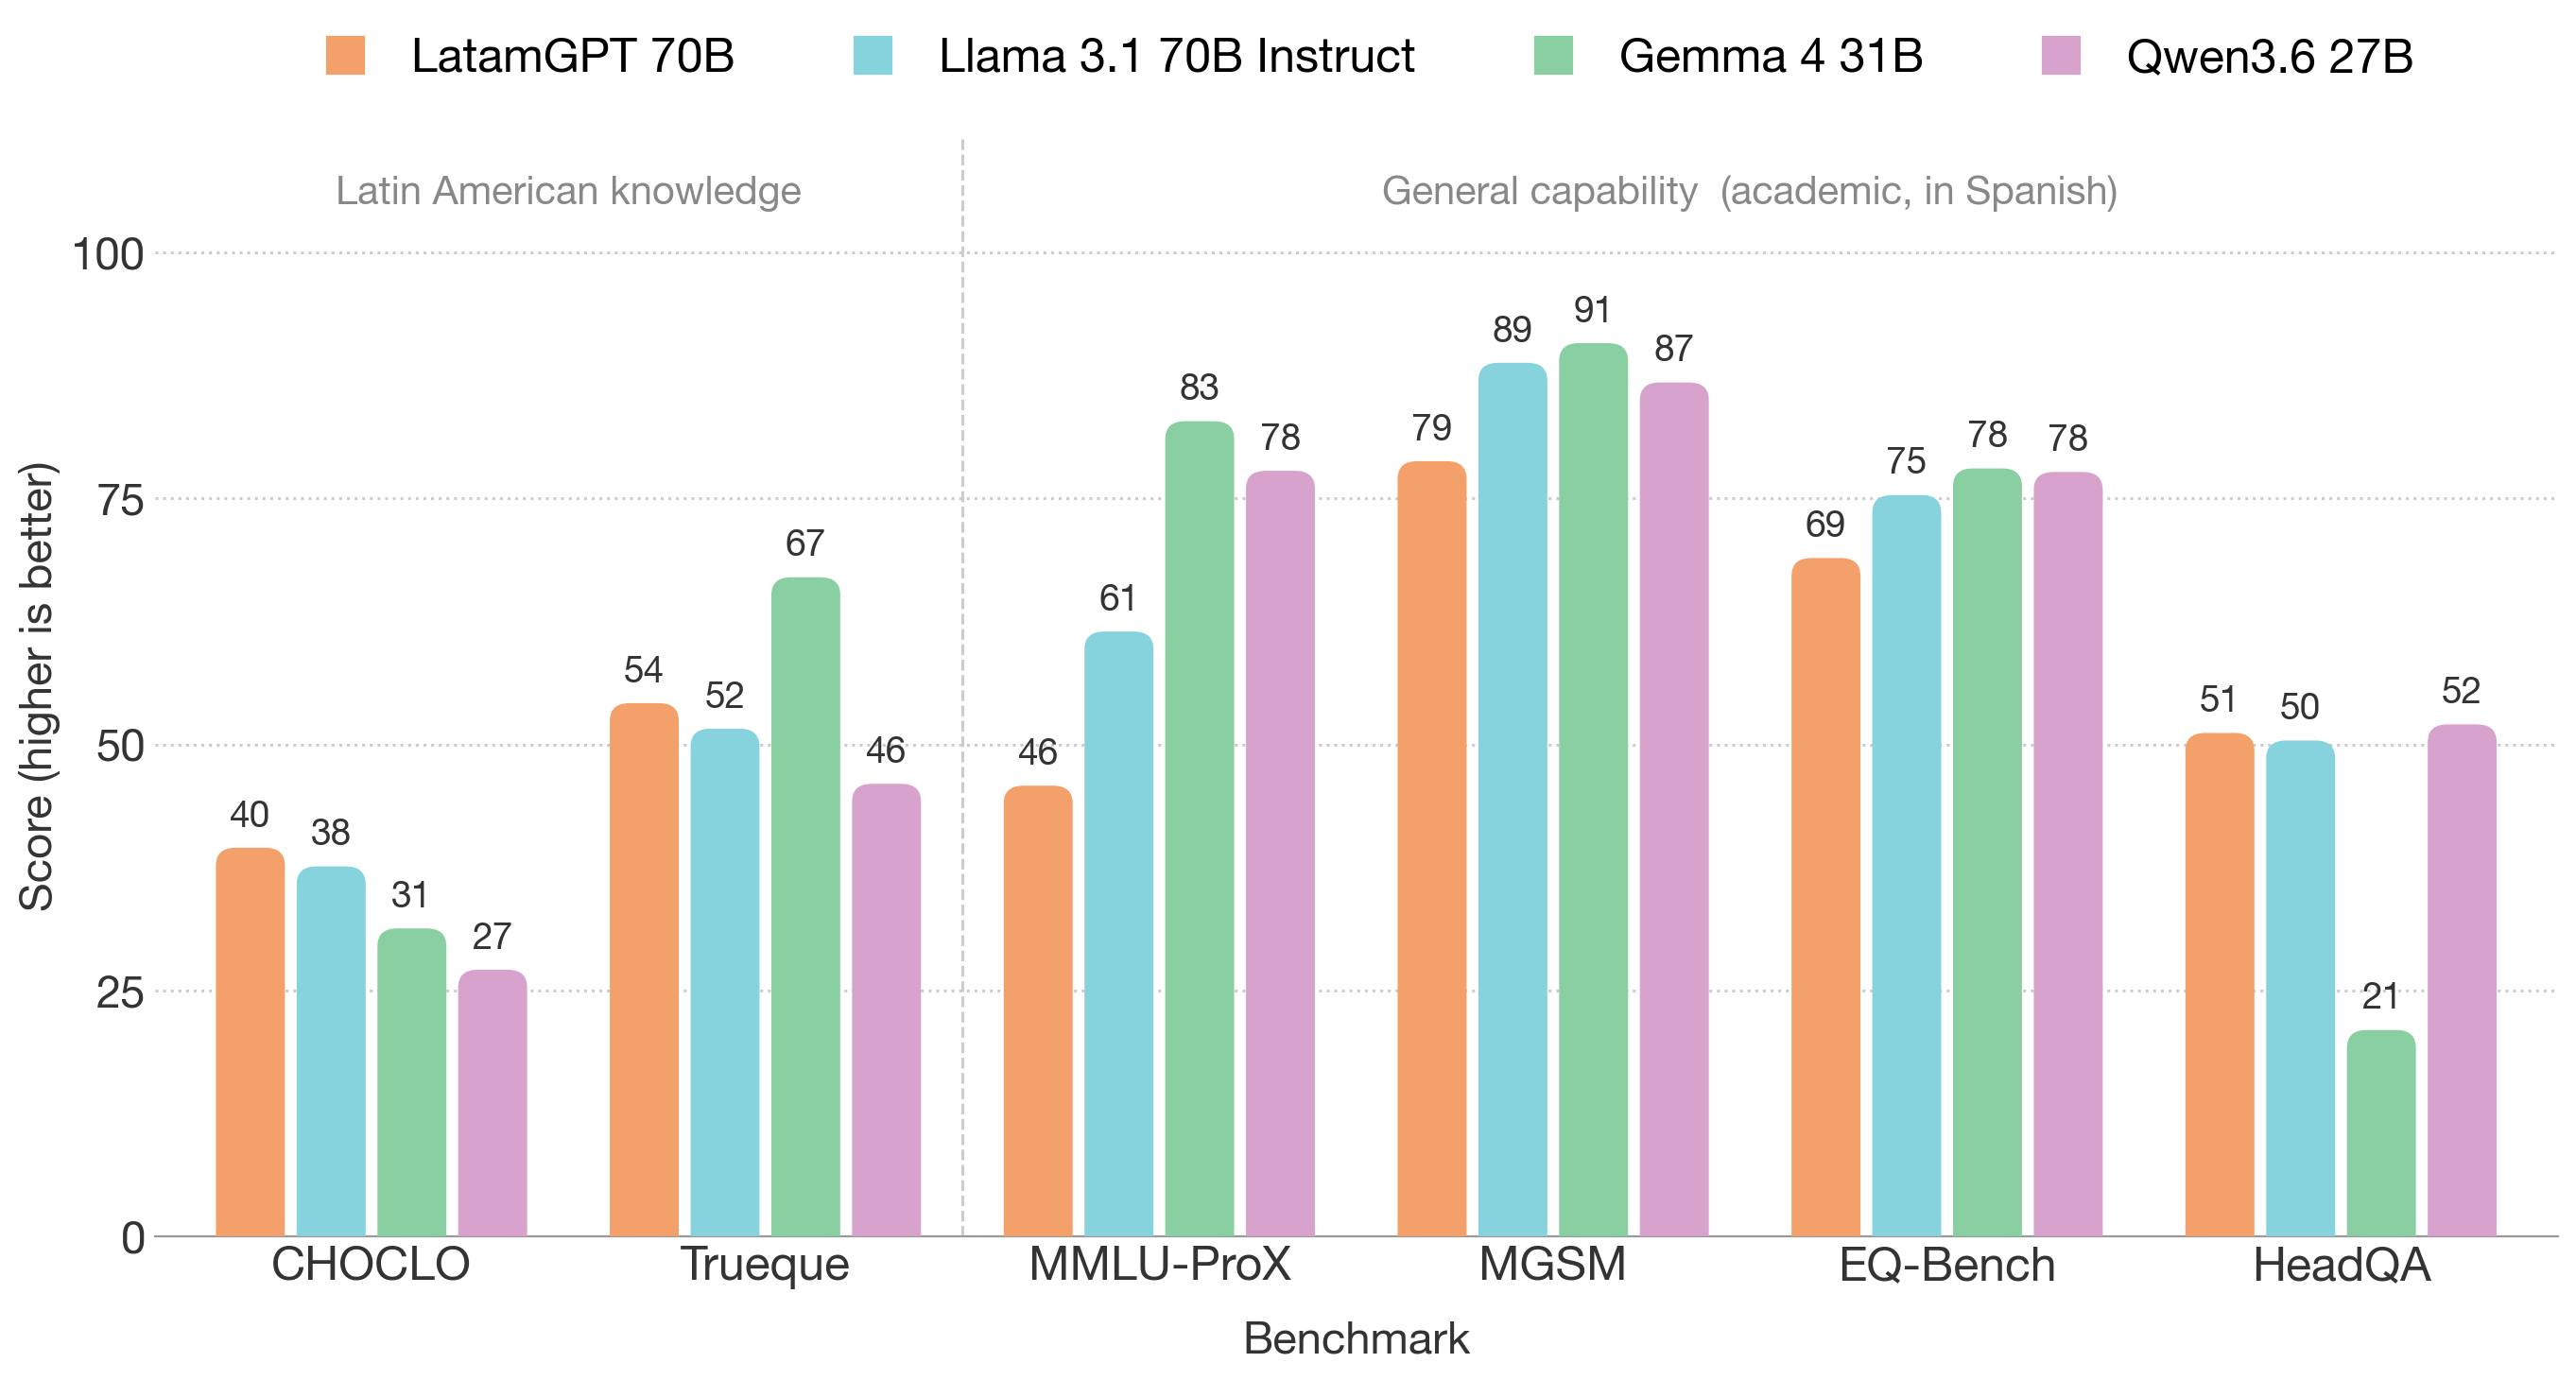
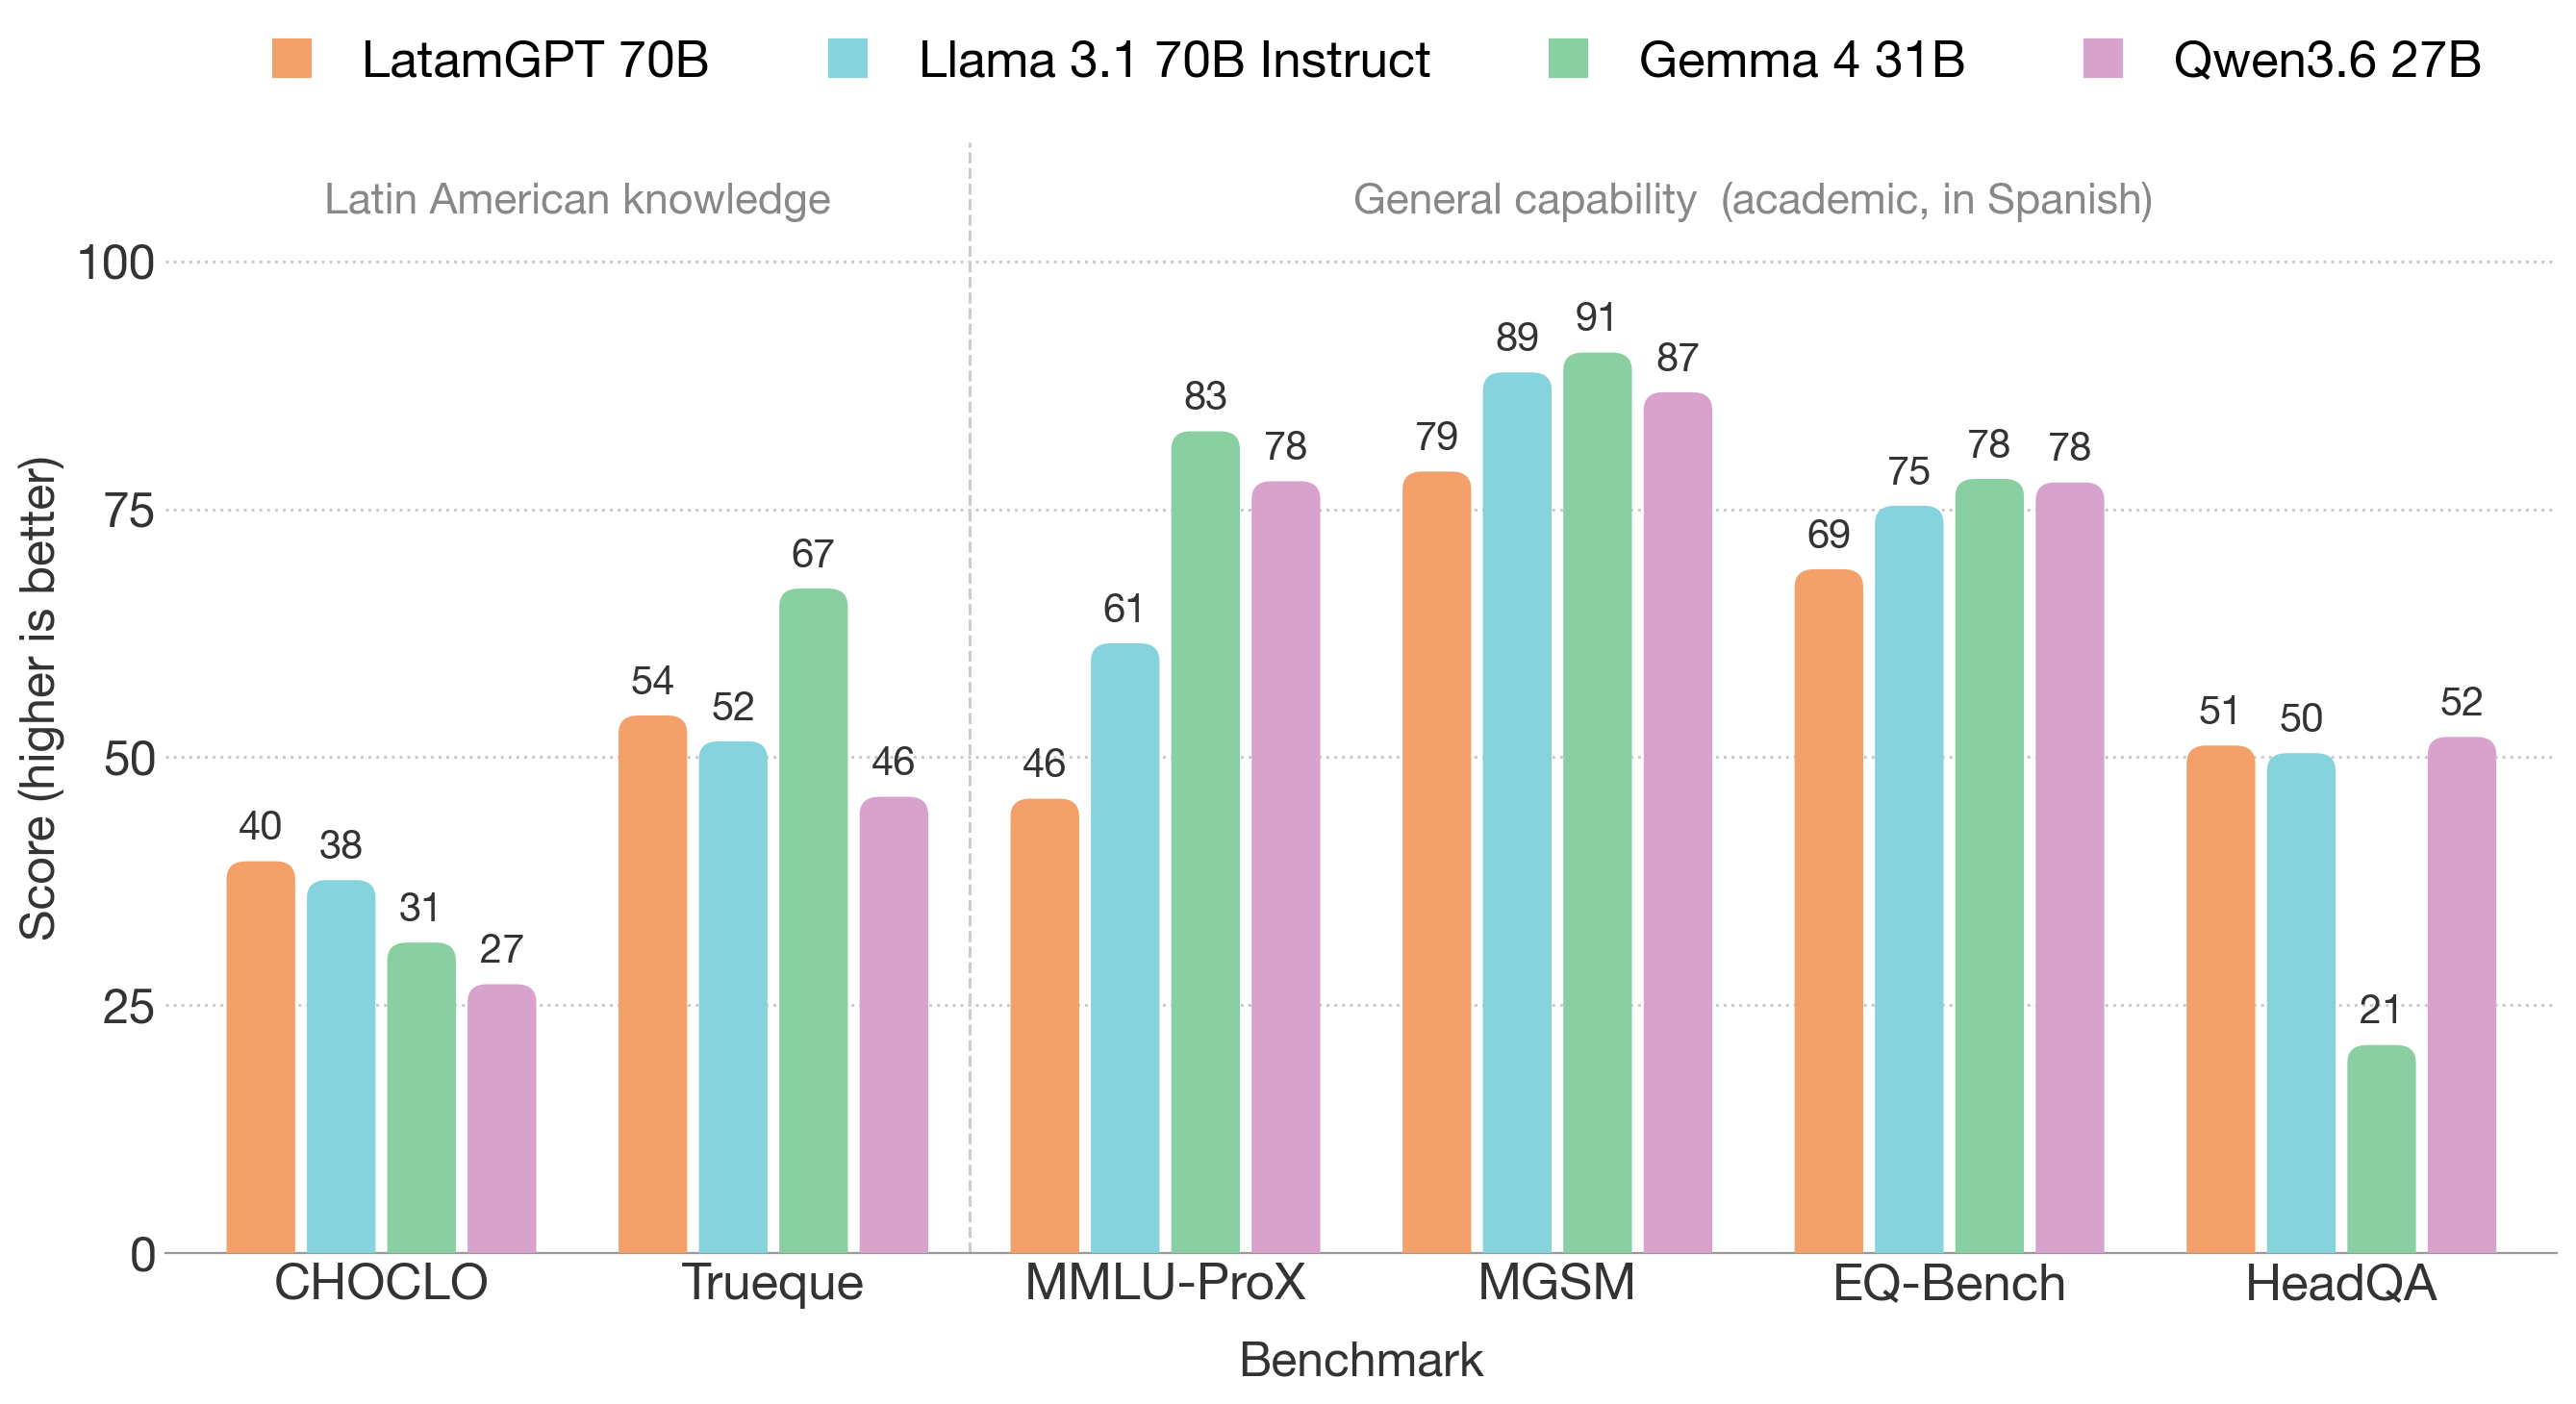
Adopt pastel vertical chart (Option A) for both posts
- English + Spanish now use the styled pastel vertical chart (bigger fonts)
- Captions reworded for new orientation (cultural left / general right)
- Spanish chart relabeled in Spanish; drop the unused portrait option

diff --git a/_posts/2026-06-09-blog-3-latamgpt.md b/_posts/2026-06-09-blog-3-latamgpt.md
@@ -29,14 +29,7 @@ Here's how the four models stack up across every benchmark I ran:
 <p align="center">
     <img src="/images/latamgpt-benchmarks-styled-pastel.png" width="760">
 	<center>
-	<figcaption><strong>Option A — pastel, vertical bars.</strong> Latin American knowledge (CHOCLO, Trueque) on the left; general Spanish benchmarks on the right.</figcaption>
-	</center>
-</p>
-
-<p align="center">
-    <img src="/images/latamgpt-benchmarks-styled-h-pastel.png" width="560">
-	<center>
-	<figcaption><strong>Option B — pastel, portrait.</strong> Same data; Latin American knowledge on top, general benchmarks below.</figcaption>
+	<figcaption>Latin American knowledge benchmarks on the left, general Spanish benchmarks on the right. LatamGPT tops CHOCLO and edges Llama 3.1 Instruct on both cultural sets—though Gemma takes the smaller, human-reviewed Trueque—while trailing the comparison models on the general benchmarks (except HeadQA, where Gemma's score looks like an evaluation artifact).</figcaption>
 	</center>
 </p>
 

diff --git a/_pages/blog-latamgpt-benchmarks-es.md b/_pages/blog-latamgpt-benchmarks-es.md
@@ -22,7 +22,7 @@ Así se comparan los cuatro modelos en todos los benchmarks que corrí:
 <p align="center">
     <img src="/images/latamgpt-benchmarks-es.png" width="760">
 	<center>
-	<figcaption>En los benchmarks generales en español (izquierda), LatamGPT (rojo) queda por debajo del Llama 3.1 70B Instruct de Meta (azul) y de los dos modelos más nuevos y pequeños—salvo en HeadQA, donde quedan parejos (y el puntaje de Gemma parece un artefacto de evaluación). En los benchmarks culturales del CENIA (derecha) la cosa cambia: LatamGPT encabeza CHOCLO con claridad, aunque Gemma se queda con Trueque, más pequeño y revisado por humanos.</figcaption>
+	<figcaption>Los benchmarks de conocimiento latinoamericano a la izquierda; los benchmarks generales en español a la derecha. LatamGPT encabeza CHOCLO y supera a Llama 3.1 Instruct en los dos sets culturales —aunque Gemma se queda con Trueque, más pequeño y revisado por humanos— y queda por detrás de los modelos de comparación en los benchmarks generales (salvo en HeadQA, donde el puntaje de Gemma parece un artefacto de evaluación).</figcaption>
 	</center>
 </p>
 